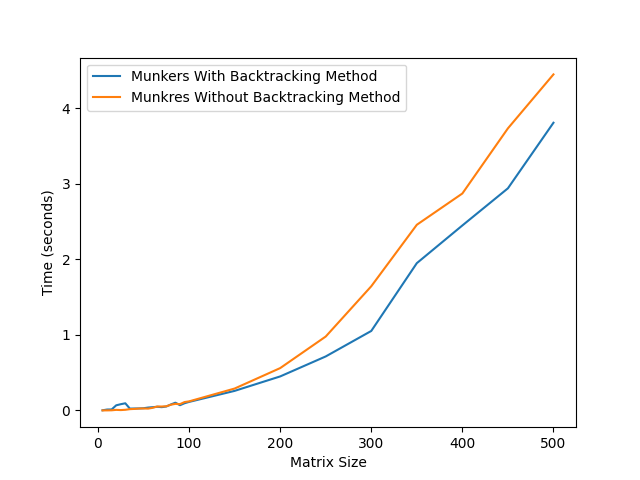
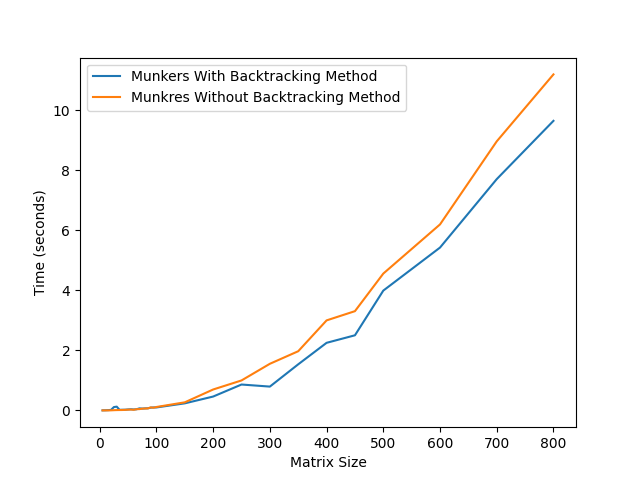
added comparison of 800 input size

diff --git a/networkz/simulations/many_to_many_simulation.py b/networkz/simulations/many_to_many_simulation.py
@@ -94,7 +94,7 @@ def run_experiment(size: int) -> dict:
     }
 
 input_ranges = {
-    'size': [5, 10, 15, 20, 25, 30, 35, 40, 45, 50, 55, 60, 65, 70, 75, 80, 85, 90, 95, 100, 150, 200, 250, 300, 350, 400, 450, 500]
+    'size': [5, 10, 15, 20, 25, 30, 35, 40, 45, 50, 55, 60, 65, 70, 75, 80, 85, 90, 95, 100, 150, 200, 250, 300, 350, 400, 450, 500, 600, 700, 800]
 }
 
 # Initialize the experiment
